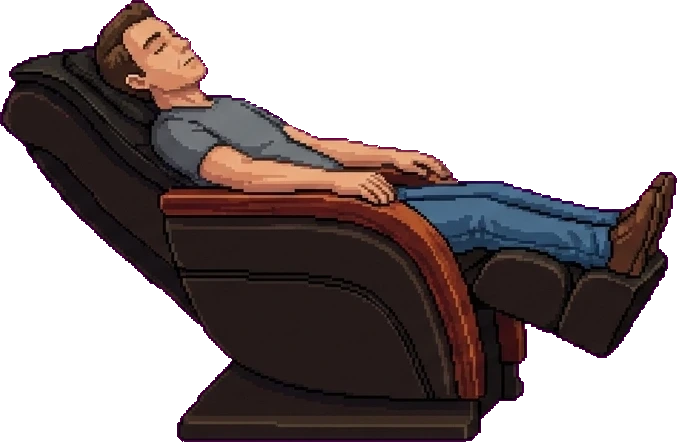
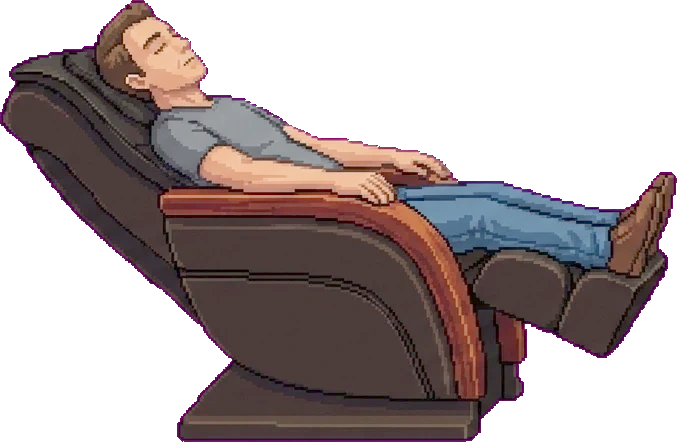
living shop: gamma-lift massage chair sprites so they read at phone size

diff --git a/site/assets/living-shop.js b/site/assets/living-shop.js
@@ -116,7 +116,7 @@
     var im = new Image();
     im.onload = function () { if (++loaded === toLoad.length) start(); };
     im.onerror = function () { failed = true; };
-    im.src = A + n + '.webp?v=18';
+    im.src = A + n + '.webp?v=19';
     IMGS[n] = im;
   });
 

diff --git a/site/index.html b/site/index.html
@@ -108,7 +108,7 @@
     <button class="ls-reveal" aria-expanded="false" aria-controls="live-wait" hidden>Wait times &amp; booking <span class="chev">&#9662;</span></button>
   </div>
 </section>
-<script src="assets/living-shop.js?v=79" defer></script>
+<script src="assets/living-shop.js?v=80" defer></script>
 
 <!-- ============ LIVE WAIT (Living Shop Phase 1 — feature-flagged) ============ -->
 <section class="live-wait" id="live-wait" hidden aria-label="Live wait time">